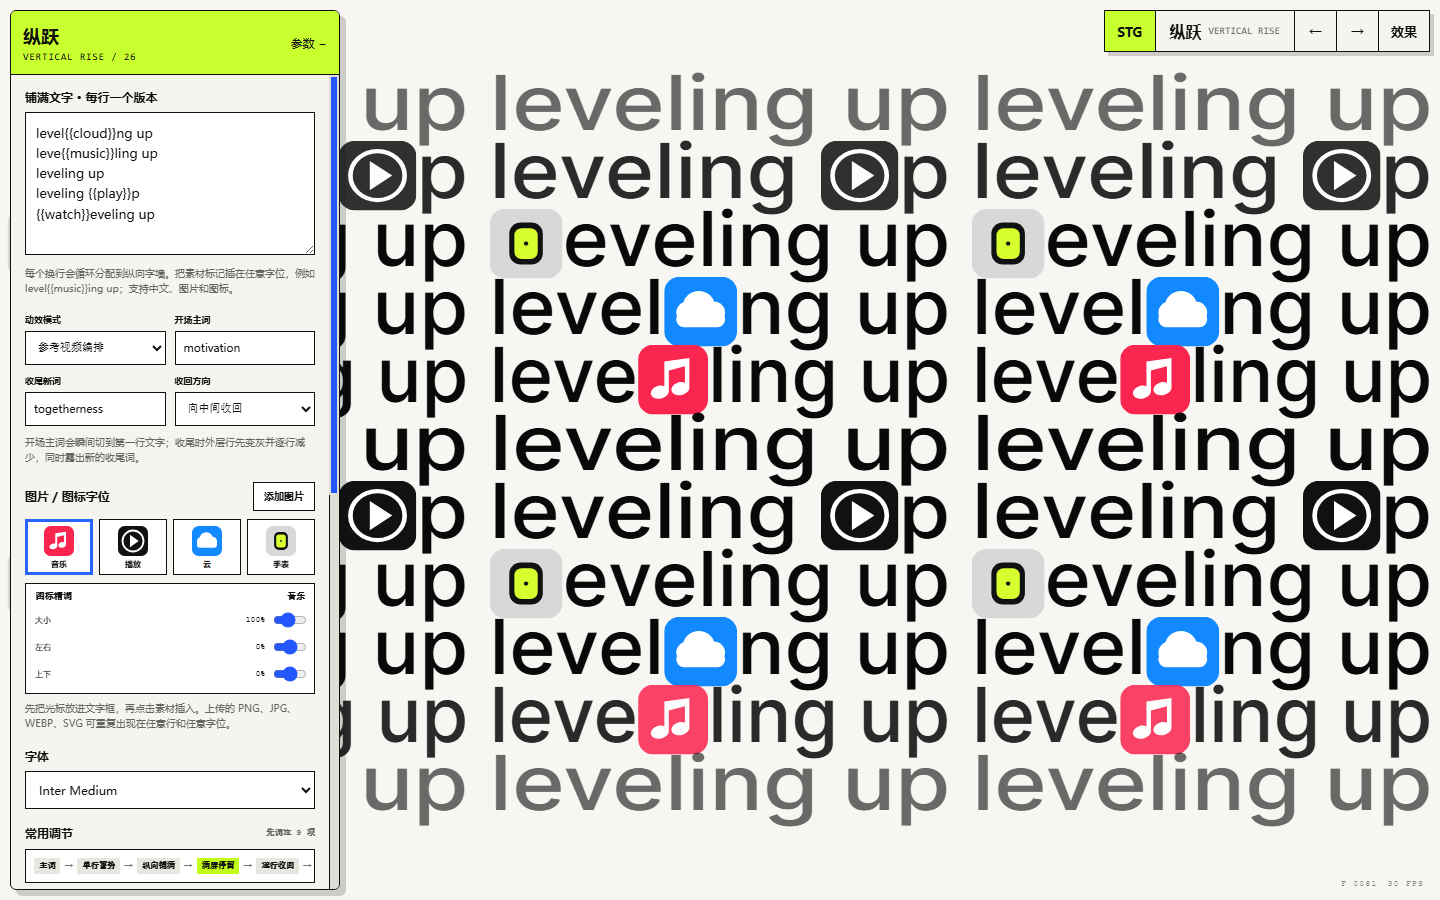
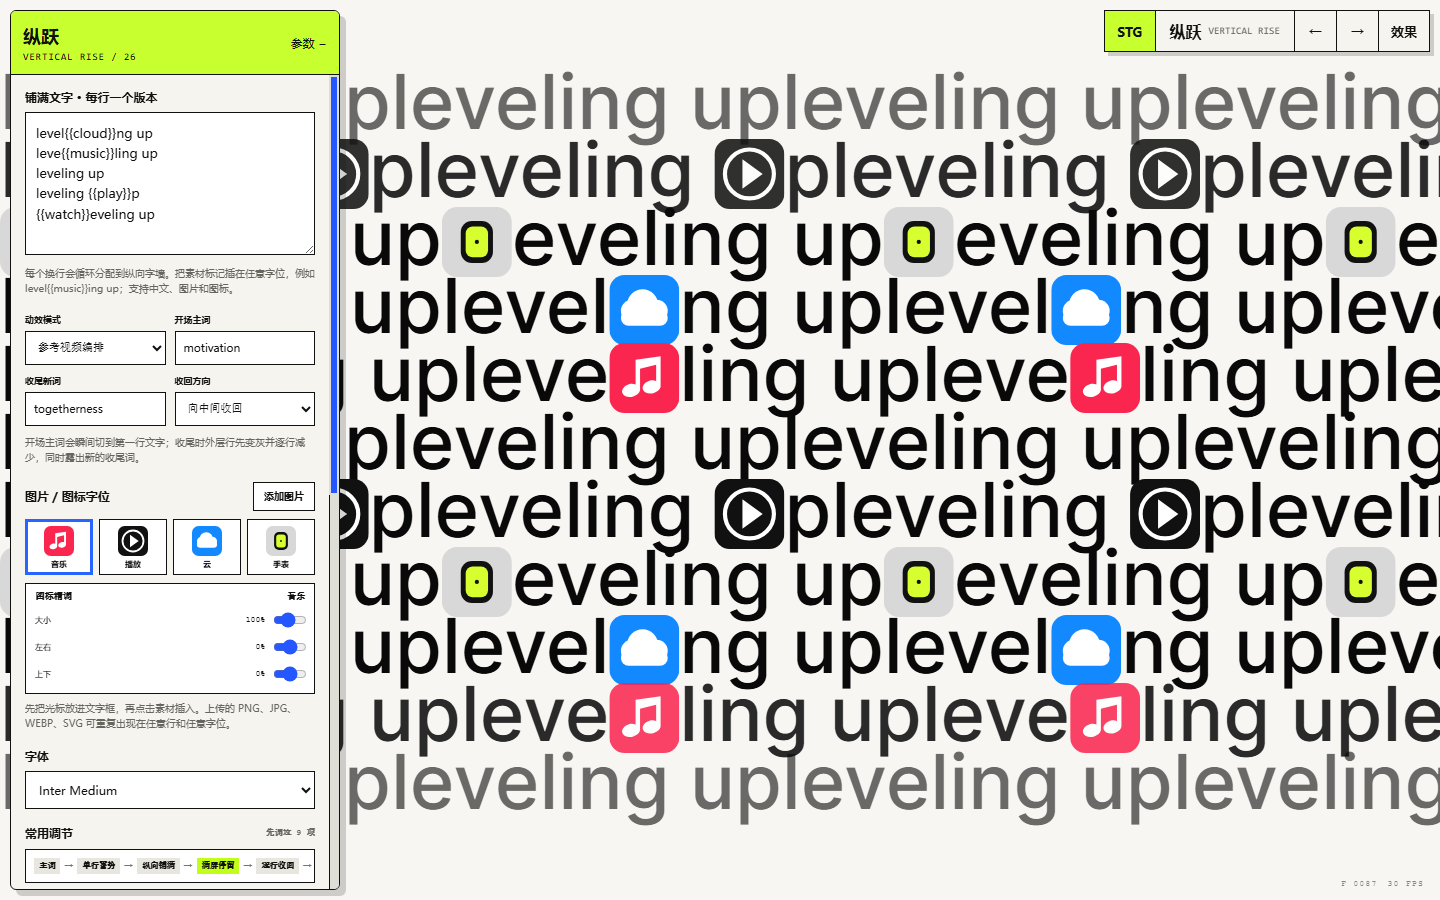
Anchor Vertical Rise rows to canvas edges

diff --git a/site/verticalwall.js b/site/verticalwall.js
@@ -340,34 +340,17 @@
 
     const centerSource = Math.floor(rows.length / 2);
     const lineForLane = (lane) => rows[mod(centerSource + lane, rows.length)];
-    const wallLayouts = new Map(rows.map((line) => [line, layoutTokens(context, line, fontPx, assetHeight, 0)]));
-    const wallContentWidth = Math.max(fontPx, ...Array.from(wallLayouts.values(), (layout) => layout.width));
-    const wallCellWidth = wallContentWidth + fontPx * .28;
     const drawCentered = (line, y, xOffset = 0, alpha = 1, rowScale = 1, fillWidth = false) => {
-      const layout = fillWidth
-        ? (wallLayouts.get(line) || layoutTokens(context, line, fontPx, assetHeight, 0))
-        : layoutTokens(context, line, fontPx, assetHeight, 0);
+      const layout = layoutTokens(context, line, fontPx, assetHeight, 0);
       context.save();
       context.globalAlpha *= clamp01(alpha);
       context.translate(w / 2 + xOffset, h / 2 + y);
       context.scale(rowScale, rowScale);
       const localWidth = w / Math.max(.01, rowScale);
-      const tileRow = fillWidth && wallCellWidth < localWidth * .62;
       if (fillWidth) {
-        const stretchX = wallContentWidth / Math.max(1, layout.width);
-        const drawAlignedCell = (cellCenter) => {
-          context.save();
-          context.translate(cellCenter - wallContentWidth / 2, 0);
-          context.scale(stretchX, 1);
-          drawSequence(context, layout, 0, 0, inputs.foreground.value);
-          context.restore();
-        };
-        if (tileRow) {
-          const firstCell = Math.floor((-localWidth / 2 - wallContentWidth) / wallCellWidth);
-          const lastCell = Math.ceil((localWidth / 2 + wallContentWidth) / wallCellWidth);
-          for (let cell = firstCell; cell <= lastCell; cell += 1) drawAlignedCell(cell * wallCellWidth);
-        } else {
-          drawAlignedCell(0);
+        const leftEdge = -localWidth / 2;
+        for (let x = leftEdge; x < localWidth / 2 + layout.width; x += layout.width) {
+          drawSequence(context, layout, x, 0, inputs.foreground.value);
         }
       } else {
         drawSequence(context, layout, -layout.width / 2, 0, inputs.foreground.value);
